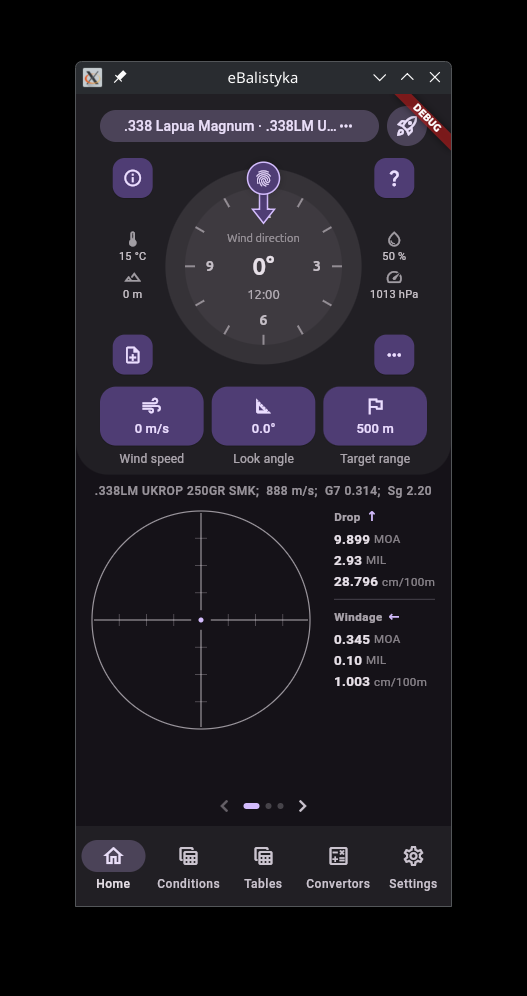
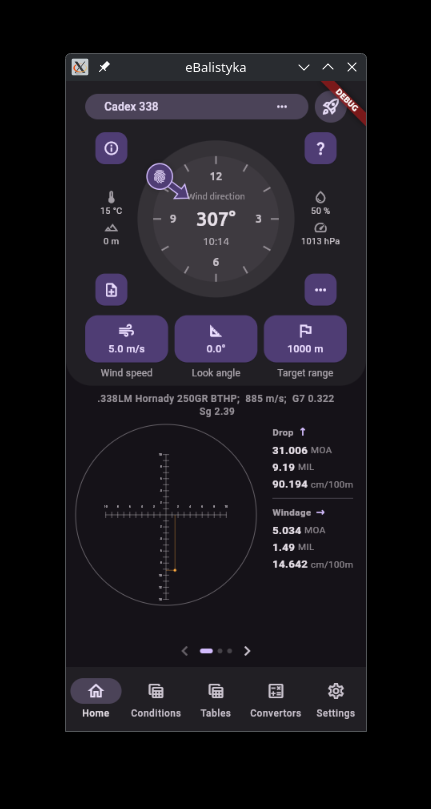
feat: display adjustment on reticle

diff --git a/lib/features/home/widgets/home_reticle_page.dart b/lib/features/home/widgets/home_reticle_page.dart
@@ -40,11 +40,9 @@ class HomeReticlePage extends ConsumerWidget {
       children: [
         Padding(
           padding: const EdgeInsets.fromLTRB(16, 8, 16, 4),
-          child: Text(
-            vmState.cartridgeInfoLine.replaceAll('; ', '\n'),
+          child: _SemicolonWrappingText(
+            vmState.cartridgeInfoLine,
             style: tt.labelMedium?.copyWith(color: cs.onSurface.withAlpha(160)),
-            textAlign: TextAlign.center,
-            softWrap: true,
           ),
         ),
         Expanded(
@@ -82,6 +80,48 @@ class HomeReticlePage extends ConsumerWidget {
       ],
     );
   }
+}
+
+// ─── Semicolon-aware wrapping text ───────────────────────────────────────────
+
+class _SemicolonWrappingText extends StatelessWidget {
+  const _SemicolonWrappingText(this.text, {this.style});
+
+  final String text;
+  final TextStyle? style;
+
+  @override
+  Widget build(BuildContext context) => LayoutBuilder(
+    builder: (_, constraints) {
+      final segments = text.split('; ');
+      if (segments.length <= 1) {
+        return Text(text, style: style, textAlign: TextAlign.center);
+      }
+
+      final maxWidth = constraints.maxWidth;
+      final lines = <String>[];
+      var current = segments.first;
+
+      for (int i = 1; i < segments.length; i++) {
+        final candidate = '$current; ${segments[i]}';
+        final tp = TextPainter(
+          text: TextSpan(text: candidate, style: style),
+          maxLines: 1,
+          textDirection: TextDirection.ltr,
+        )..layout(maxWidth: double.infinity);
+
+        if (tp.width <= maxWidth) {
+          current = candidate;
+        } else {
+          lines.add(current);
+          current = segments[i];
+        }
+      }
+      lines.add(current);
+
+      return Text(lines.join('\n'), style: style, textAlign: TextAlign.center);
+    },
+  );
 }
 
 // ─── Reticle view ─────────────────────────────────────────────────────────────

diff --git a/docs/RETICLES_AND_IMAGES.md b/docs/RETICLES_AND_IMAGES.md
@@ -28,7 +28,7 @@
 
 ## Built-in Collection — reticleImage
 
-У `assets/json/collection.json` у кожного сайту є поля `reticleImage` та `calibratedMagnification`:
+У `assets/json/collection.json` у кожного sight є поля `reticleImage` та `calibratedMagnification`:
 
 ```json
 {
@@ -42,7 +42,103 @@
 
 Приклади ідентифікаторів: `"IHR"`, `"DDR-2"`, `"NP-RF1"`, `"LV.5"`, `"MIL-XT"`.
 
-`reticleImage` зараз — просто рядок, що зберігається в OB. Як саме він буде використовуватись для відображення — не визначено.
+`reticleImage` зараз — просто рядок, що зберігається в OB. Як саме він буде використовуватись для відображення конкретної сітки — **не визначено**. Планується: кожен ідентифікатор відповідає SVG-файлу з `assets/reticles/`.
+
+---
+
+## packages/reticle_gen
+
+Розташування: `packages/reticle_gen/`
+
+**Поточний статус: standalone CLI-інструмент, частково реалізований. Планується розширення для генерації всіх SVG-сіток колекції.**
+
+Використовує `dart:io` для запису SVG у файл — не може безпосередньо використовуватись як Flutter widget.
+
+### Архітектура
+
+```
+CanvasInterface       — абстрактний API: line, rect, circle, path, text, fill, clip
+    └── SVGCanvas     — реалізація через xml (XmlElement)
+                        viewBox центрований: (-w/2, -h/2, w, h)
+                        _target — поточний контейнер запису (svg / clipPath / group)
+
+DrawerInterface       — draw(CanvasInterface canvas)
+    ├── CrossDrawer       — простий хрест
+    ├── ScopeDrawer       — хрест + коло + розмітка по колу
+    ├── CompositeDrawer   — комбінація кількох Drawer
+    └── MilReticleDrawer  — MIL сітка (перший варіант, тестовий)
+
+MilReticleCanvas      — SVGCanvas з factor (координати у мілах, виводяться * factor)
+    └── drawAdjustment(x, y)  — малює крапку на заданому зміщенні в мілах
+```
+
+### clip()
+
+SVG клiпування через `<clipPath>`. API:
+
+```dart
+canvas.clip(
+  shape: (c) => c.circle(0, 0, 15, 'white'),  // форма обрізки
+  draw: (c) {
+    c.line(...);  // вміст, обрізаний по формі
+  },
+);
+```
+
+Генерує `<clipPath id="clipN">` + `<g clip-path="url(#clipN)">` безпосередньо в SVG (без `<defs>`).
+Підкласи `SVGCanvas`, що додають елементи напряму, мають використовувати `target.children.add(...)` замість `svg.children.add(...)`.
+
+### MilReticleCanvas — система координат
+
+```dart
+MilReticleCanvas(milWidth: 30, milHeight: 30, factor: 100)
+// → SVG 3000×3000 px, viewBox (-1500, -1500, 3000, 3000)
+// Координати у drawer — в мілах: line(-10, 0, 10, 0, ...) = 10 MIL вліво/вправо
+
+drawAdjustment(0.53, 4.6)  // → крапка на 0.53 MIL вправо, 4.6 MIL вниз
+```
+
+Всі методи (`line`, `rect`, `circle`, `text`, `path`) автоматично масштабують координати та товщини на `factor`.
+
+### Кастомні SVG-атрибути (self-describing reticle)
+
+`MilReticleCanvas.generate()` додає до кореневого `<svg>`:
+
+| Атрибут | Значення |
+|---------|---------|
+| `data-mil-width` | Ширина канвасу в мілах (default `30.0`) |
+| `data-mil-height` | Висота канвасу в мілах (default `30.0`) |
+| `data-factor` | Масштабний фактор (default `100`) |
+| `shape-rendering` | `crispEdges` |
+
+Flutter зчитує ці атрибути через `_parseSvgMeta()` для правильного обчислення координат поправки без хардкоду.
+
+### MilReticleDrawer — перший варіант (тестовий)
+
+- Зовнішнє коло r=15 MIL — обідок + clip-path
+- Горизонтальна вісь: лінія −10..+10, риски кожний 1 MIL, числові підписи над рискою (парні)
+- Вертикальна вісь: лінія −10..+14, риски кожний 1 MIL, числові підписи зліва (парні)
+- Весь вміст обрізається по колу; обідок малюється поверх
+
+### Кольори в SVG
+
+Замість хардкодованих кольорів — семантичні ролі Material ColorScheme як рядки:
+
+```dart
+const String color = "onSurface";
+canvas.line(-10, 0, 10, 0, color, thickness);
+// → stroke="onSurface" в SVG
+```
+
+Flutter замінює їх на `#rrggbb` при завантаженні (runtime string replace).
+
+Підтримувані ролі: `onSurface`, `onBackground`, `primary`, `secondary`, `error`.
+
+### Генерація SVG
+
+```bash
+dart run packages/reticle_gen/bin/mil_reticle.dart assets/reticles/default.svg
+```
 
 ---
 
@@ -52,57 +148,18 @@
 
 Page 1 (з трьох) HomeScreen. Складається з двох частин:
 
-**`_ReticleView`** — займає 2/3 ширини, квадратний `AspectRatio(1)`:
-- Рендериться через `CustomPaint(_ReticlePainter)`
-- **Хардкодована** проста сітка: коло + хрест з gap по центру + 3 риски на кожній осі
-- Не підключена до `Sight.reticleImage` або будь-яких даних entity
-- `shouldRepaint` — тільки якщо змінився `ColorScheme`
+**`_ReticleView`** — займає 2/3 ширини, `AspectRatio(1)`:
+- Завантажує `assets/reticles/default.svg` через `rootBundle` (один раз, `static Future`)
+- **Runtime підміна кольорів:** замінює `"onSurface"` і т.д. на `#rrggbb` з поточного `ColorScheme`
+- **Ін'єкція поправки:** вставляє 2 лінії + коло перед `</svg>` у системі координат SVG (`windMil * factor`, `elevMil * factor`)
+- **OUT OF RANGE:** якщо поправка виходить за межі canvas — виводить текст замість індикатора
+- Рендерить через `flutter_svg`: `SvgPicture.string(fit: BoxFit.contain, allowDrawingOutsideViewBox: true)`
+- Колір поправки: `orangeAccent` (dark) / `deepOrangeAccent` (light)
 
 **`_AdjPanel`** — займає 1/3 ширини:
 - ✅ Функціональна: показує Drop і Windage з `homeVmProvider` (`AdjustmentData`)
-- Формат відображення (`AdjustmentDisplayFormat`): arrows / signs / letters — з налаштувань
+- Формат (`AdjustmentDisplayFormat`): arrows / signs / letters — з налаштувань
 - Якщо `elevation.isEmpty` — показує `'Enable units...'`
-
----
-
-## packages/reticle_gen
-
-Розташування: `packages/reticle_gen/`
-
-**Поточний статус: standalone CLI-інструмент, не інтегрований у Flutter-додаток.**
-
-Використовує `dart:io` для запису SVG у файл — не може безпосередньо використовуватись як Flutter widget.
-
-### Архітектура
-
-```
-CanvasInterface       — абстрактний API: line, rect, circle, path, text, fill
-    └── SVGCanvas     — реалізація через xml (XmlElement)
-                        viewBox центрований: (-w/2, -h/2, w, h)
-
-DrawerInterface       — draw(CanvasInterface canvas)
-    ├── CrossDrawer       — простий хрест
-    ├── ScopeDrawer       — хрест + коло + розмітка по колу
-    ├── CompositeDrawer   — комбінація кількох Drawer
-    └── MilReticleDrawer  — MIL сітка (-10..+10 мілів по обох осях, риски кожний 1 MIL)
-
-MilReticleCanvas      — SVGCanvas з factor (координати у мілах, виводяться * factor)
-    └── drawAdjustment(x, y)  — малює червону крапку на заданому зміщенні в мілах
-```
-
-### MilReticleCanvas — система координат
-
-```dart
-MilReticleCanvas(milWidth: 30, milHeight: 30, factor: 100)
-// → SVG 3000×3000 px, viewBox (-1500, -1500, 3000, 3000)
-// Координати у drawer — в мілах: line(-10, 0, 10, 0, ...) = 10 MIL вліво/вправо
-
-drawAdjustment(0.53, 4.6)  // → червона крапка на 0.53 MIL вправо, 4.6 MIL вниз
-```
-
-### Поточне використання
-
-Тільки в `bin/mil_reticle.dart` — генерує `final.svg` у файлову систему. Proof-of-concept.
 
 ---
 
@@ -120,9 +177,11 @@ drawAdjustment(0.53, 4.6)  // → червона крапка на 0.53 MIL вп
 
 ---
 
-## TODO (не визначено)
+## TODO (Post-Alpha)
 
-- [ ] Реалізація відображення ретіклів і поправок на них — **архітектура і підхід TBD**
-- [ ] Формат і сховище для `entity.image` (Weapon/Sight/Ammo) — **TBD** (файлова система / база64 / asset)
-- [ ] Підключення `reticle_gen` до Flutter (заміна `dart:io` на Flutter-сумісний підхід, або `flutter_svg`)
+- [ ] Генерація SVG для всіх ідентифікаторів сіток з `collection.json` через `reticle_gen`
+- [ ] Підключення `Sight.reticleImage` до відображення відповідного SVG-файлу
+- [ ] Формат і сховище для `entity.image` (Weapon/Sight/Ammo) — TBD (файлова система / base64 / asset)
+- [ ] Підключення `reticle_gen` до Flutter (заміна `dart:io` на Flutter-сумісний підхід, або pre-generate all)
 - [ ] Image picker / camera UI у wizard screens
+- [ ] Fullscreen reticle view — детальний перегляд з поправками

diff --git a/README.md b/README.md
@@ -33,12 +33,14 @@ A cross-platform ballistic trajectory calculator built with Flutter. Powered by 
 ## Features
 
 - **Shooting profiles** — create and manage profiles combining weapon, ammunition, and sight configurations
-- **Weapon, ammo & sight wizards** — step-by-step setup with optional import from built-in collections
-- **Trajectory tables** — compute and display ballistic tables
-- **Environmental conditions** — input atmosphere, wind, and target parameters for corrected solutions
-- **Unit converters** — length, weight, pressure, temperature, angular units, torque
-- **Configurable units** — choose your preferred measurement system in settings
-- **Adjustment display** — customise how turret/holdover corrections are shown
+- **Weapon, ammo & sight wizards** — step-by-step setup with optional import from a built-in collection
+- **Trajectory tables** — compute and display ballistic tables with HTML export
+- **Environmental conditions** — atmosphere, wind, Coriolis, target parameters
+- **Reticle view** — SVG mil-reticle with live drop/windage adjustment indicator, theme-aware colours
+- **Multi-BC & custom drag** — G1/G7 multi-BC tables and full custom drag curve support
+- **Powder sensitivity** — temperature-based MV correction tables
+- **Configurable units** — choose your preferred measurement system per quantity in settings
+- **Adjustment display** — arrows / signs / letters format, configurable in settings
 
 ---
 

diff --git a/docs/PROFILES_CRUD_PLAN.md b/docs/PROFILES_CRUD_PLAN.md
@@ -552,11 +552,10 @@ ProfilesScreen  (/home/profiles)
 
 ### 🟠 Важливо для альфи
 
-- [ ] `DistanceConvertorScreen` — реалізувати (stub)
-- [ ] `VelocityConvertorScreen` — реалізувати (stub)
 - [x] Table export — кнопка підключена (`table_html_exporter.dart`)
 - [x] Zero Conditions UI — реалізовано в AmmoWizardScreen (секція Zeroing)
-- [ ] Settings → About links — GitHub посилання як мінімум
+
+Решта alpha UX → [ALPHA_UX.md](ALPHA_UX.md)
 
 ---
 

diff --git a/docs/ALPHA_UX.md b/docs/ALPHA_UX.md
@@ -1,0 +1,10 @@
+# Alpha UX — TODO
+
+Функції, необхідні до або одразу після першого alpha-релізу.
+
+---
+
+- [ ] `DistanceConvertorScreen` — реалізувати (наразі stub)
+- [ ] `VelocityConvertorScreen` — реалізувати (наразі stub)
+- [ ] Settings → About — додати GitHub посилання як мінімум
+- [ ] Export / Import profile / ammo / sight — формат TBD (наразі `showNotAvailableSnackBar`)
